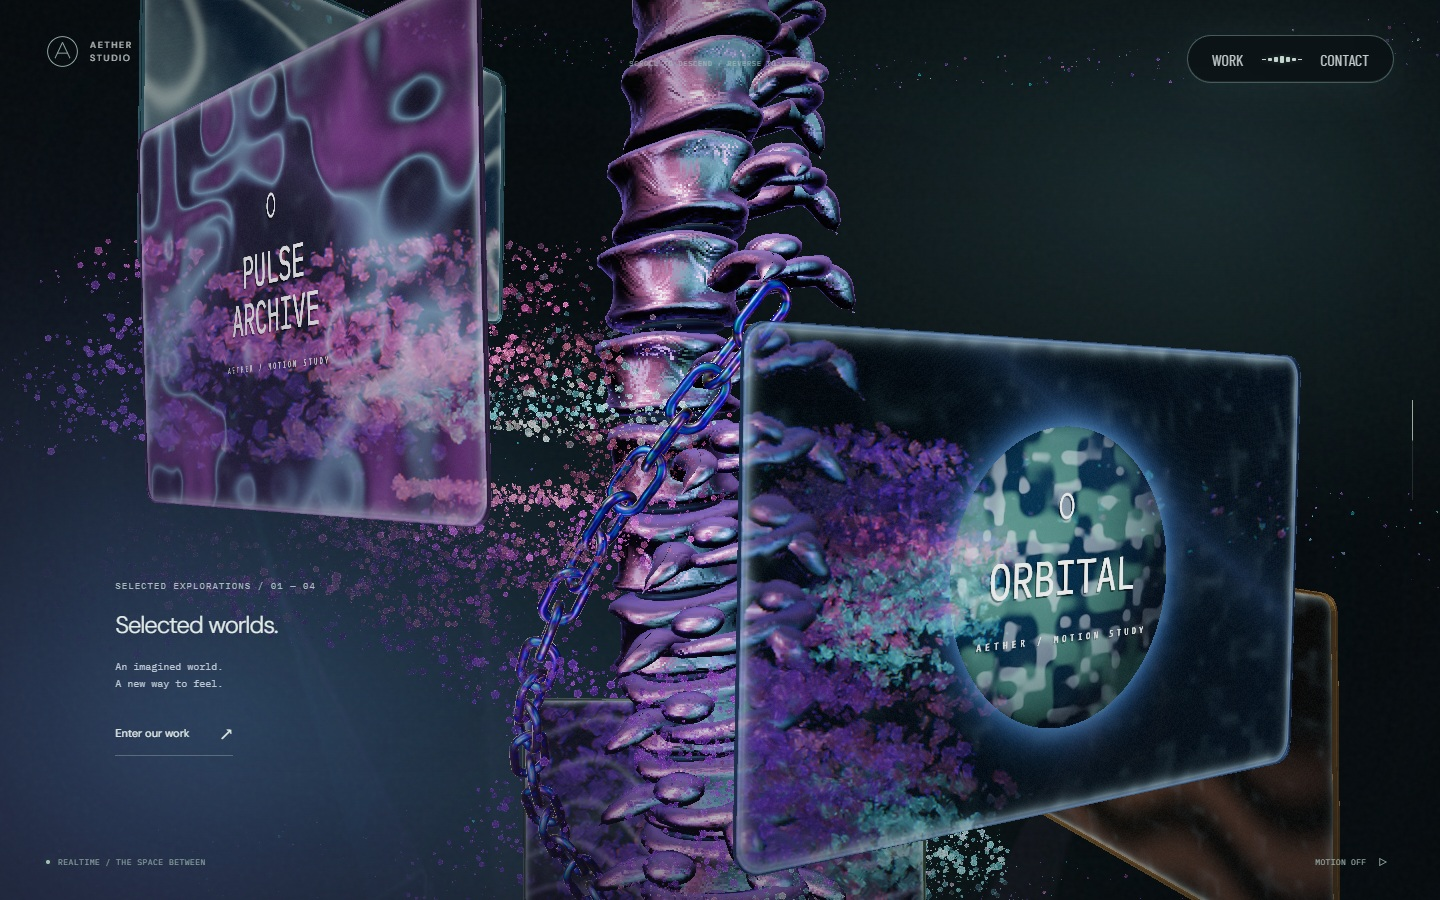
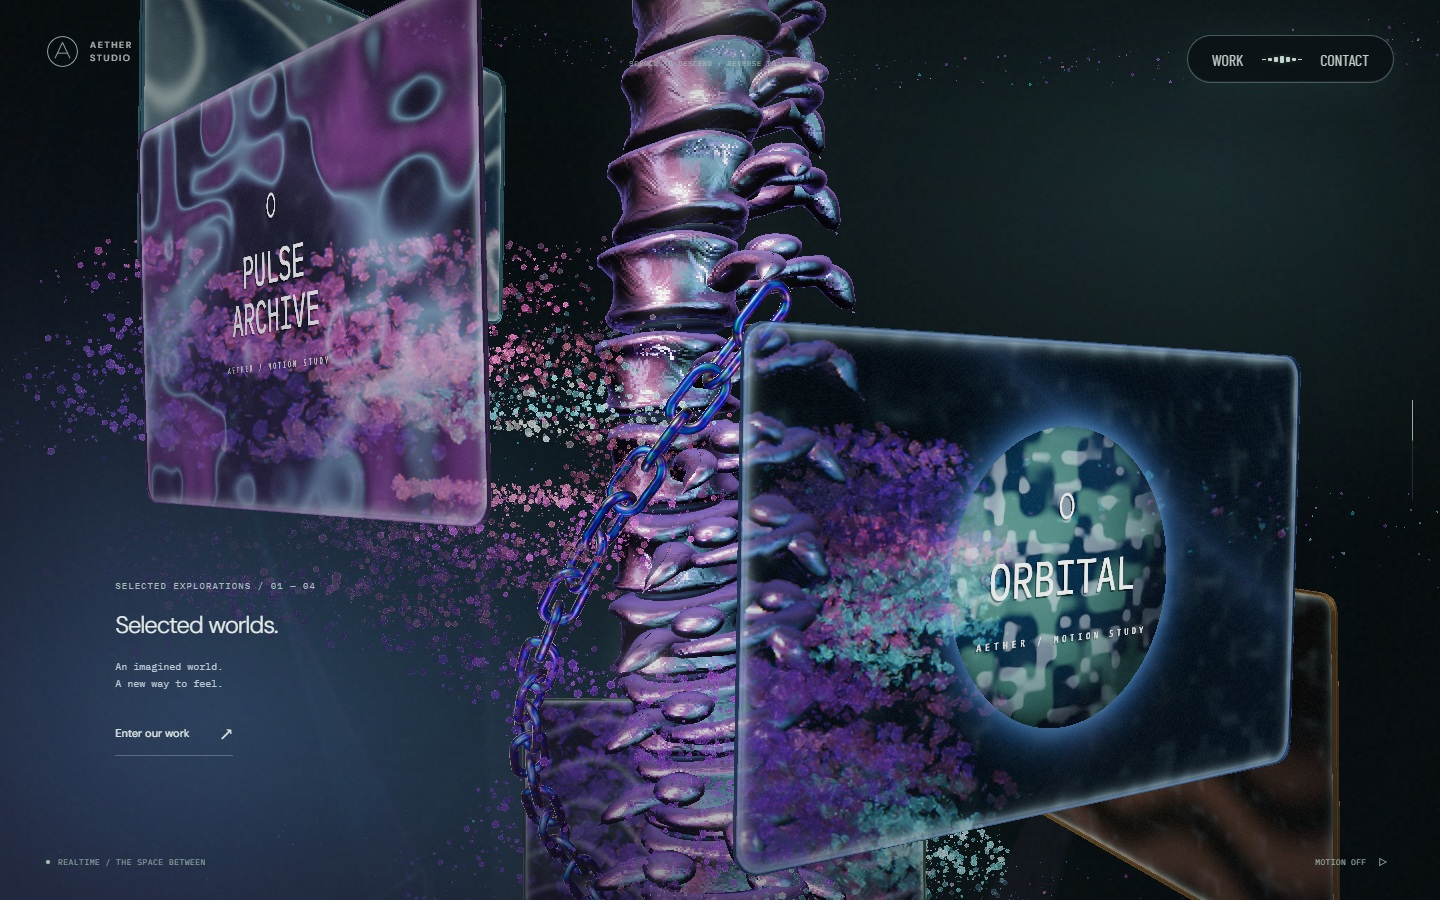
fix: preserve metal glints and close scene validation gaps

diff --git a/src/SceneSpine.ts b/src/SceneSpine.ts
@@ -221,6 +221,7 @@ export function createSpineAssembly(software: boolean, mobile: boolean) {
         // Broad reflected color coats the midtones; only the brightest metal
         // highlights approach silver. Grain never controls the coating hue.
         float spineLightPeak = max(outgoingLight.r, max(outgoingLight.g, outgoingLight.b));
+        float spineSilverPeak = min(outgoingLight.r, min(outgoingLight.g, outgoingLight.b));
         float spineWhiteHighlight = smoothstep(1.4, 4., spineLightPeak);
         float spineColorPeak = max(spineReflectionColor.r, max(spineReflectionColor.g, spineReflectionColor.b));
         vec3 spineCoatTint = mix(vec3(.58,.39,.76),
@@ -230,10 +231,17 @@ export function createSpineAssembly(software: boolean, mobile: boolean) {
         outgoingLight = spineRadiance * spineCoatTint * (.52 + spineCoating * .16)
           + spineReflectionColor * (.34 + spineFresnel * .35)
             * (.84 + spineCoating * .16);
+        // The common RGB component of a bright PBR reflection is its neutral
+        // silver glint. Keep that narrow peak above the colored coating; tinting
+        // every peak as well as the midtones removes the metal's white sparkle.
+        float spineSilverGlint = smoothstep(.45, 1.4, spineSilverPeak);
+        spineSilverGlint *= spineSilverGlint;
+        vec3 spineSilverRadiance = vec3(spineSilverPeak * .90 / (1. + spineSilverPeak * .32));
+        outgoingLight = mix(outgoingLight, spineSilverRadiance, spineSilverGlint * .88);
         #include <opaque_fragment>
       `)
     }
-    boneMaterial.customProgramCacheKey = () => 'aether-spine-layered-silver-v4'
+    boneMaterial.customProgramCacheKey = () => 'aether-spine-layered-silver-v5'
   }
   const discMaterial = new THREE.MeshPhysicalMaterial({
     color: 0x26364a, metalness: software ? .45 : .86, roughness: .44,

diff --git a/src/SceneWorlds.ts b/src/SceneWorlds.ts
@@ -315,9 +315,28 @@ export function createSceneWorlds(
   // the same screen edge that clips every upper-room object.
   const undersideMaterial = mat(new THREE.MeshStandardMaterial({
     color: 0x090d12, metalness: .43, roughness: .57, envMapIntensity: .42,
-    depthWrite: true,
+    transparent: true, depthWrite: true,
   }))
-  const underside = mesh(lowerSpace, geo(new THREE.PlaneGeometry(64, 64)), undersideMaterial, 0, -3.755, platformZ)
+  // A finite ceiling edge previously crossed the scale room as a hard screen
+  // line. Extend beyond the useful view distance, then fade before either the
+  // geometry boundary or camera far clip. Nearby ceiling still occludes fully.
+  undersideMaterial.onBeforeCompile = shader => {
+    shader.fragmentShader = shader.fragmentShader.replace('#include <opaque_fragment>', `
+      float ceilingCoverage = 1. - smoothstep(48., 76., length(vViewPosition));
+      if (ceilingCoverage < .001) discard;
+      diffuseColor.a *= ceilingCoverage;
+      #include <opaque_fragment>
+    `)
+  }
+  undersideMaterial.customProgramCacheKey = () => 'aether-ceiling-distance-coverage-v1'
+  const undersideGeometry = geo(new THREE.PlaneGeometry(192, 192))
+  // Keep the shared relief's world-space scale and centre phase unchanged.
+  const undersideUv = undersideGeometry.getAttribute('uv')
+  for (let i = 0; i < undersideUv.count; i++) {
+    undersideUv.setXY(i, (undersideUv.getX(i) - .5) * 3 + .5,
+      (undersideUv.getY(i) - .5) * 3 + .5)
+  }
+  const underside = mesh(lowerSpace, undersideGeometry, undersideMaterial, 0, -3.755, platformZ)
   underside.name = 'aether-floor-underside'
   underside.rotation.x = Math.PI / 2
   underside.renderOrder = -2

diff --git a/tests/experience.spec.ts b/tests/experience.spec.ts
@@ -37,13 +37,15 @@ test('work navigation, project sequence, Escape, and focus restoration', async (
   await expect(card).toBeFocused()
   await expect(page.locator('body')).not.toHaveCSS('overflow', 'hidden')
 
-  await page.getByRole('button', { name: 'Explore Solstice', exact: true }).click()
+  const secondCard = page.getByRole('button', { name: 'Explore Solstice', exact: true })
+  await secondCard.click()
   await dialog.getByRole('button', { name: 'Next project' }).click()
   await expect(dialog.getByRole('heading', { level: 2 })).toHaveText(
     'Somewhere between the real and the imagined.',
   )
   await dialog.getByRole('button', { name: 'Close project' }).click()
   await expect(dialog).not.toBeVisible()
+  await expect(secondCard).toBeFocused()
   expect(errors).toEqual([])
 })
 

diff --git a/tests/fixtures/interaction-harness.ts b/tests/fixtures/interaction-harness.ts
@@ -762,6 +762,13 @@ function probeScalePointer() {
   // time. Ambient particle animation cannot masquerade as pointer response.
   probeScene.attach(tiles)
   probeScene.add(new THREE.AmbientLight(0xffffff, 2))
+  // Uniform ambient light cannot reveal a rigid face's changing normal. A
+  // fixed oblique key observes the actual hinge shading, without depending
+  // on the removed pointer-driven albedo boost or an artificial normal bend.
+  const key = new THREE.DirectionalLight(0xffffff, 4)
+  key.position.set(-4, -43, 6)
+  key.target.position.set(0, -48, 0)
+  probeScene.add(key, key.target)
   const target = new THREE.WebGLRenderTarget(160, 120)
   const previousTarget = renderer.getRenderTarget()
   const previousAutoClear = renderer.autoClear

diff --git a/src/App.tsx b/src/App.tsx
@@ -557,6 +557,9 @@ export default function App() {
                 key={item.id}
                 className={`project-card card-${item.theme}`}
                 onClick={(event) => {
+                  // Safari need not focus a button on pointer activation. Set
+                  // the opener before the dialog captures its return target.
+                  event.currentTarget.focus({ preventScroll: true })
                   document.documentElement.style.setProperty('--project-origin-x', `${event.detail ? event.clientX / innerWidth * 100 : 50}%`)
                   document.documentElement.style.setProperty('--project-origin-y', `${event.detail ? event.clientY / innerHeight * 100 : 50}%`)
                   setProject(item)

diff --git a/tests/interaction.spec.ts b/tests/interaction.spec.ts
@@ -555,7 +555,7 @@ test.describe('@interaction isolated rendered trail and input lifecycle', () => 
     expect(contact.scaleCorePresent).toBe(false)
     expect(contact.ceilingWidth).toBeCloseTo(64, 5)
     expect(contact.undersideY).toBeLessThan(contact.floorMin)
-    expect(contact.undersideWidth).toBeCloseTo(64, 5)
+    expect(contact.undersideWidth).toBeCloseTo(192, 5)
     expect(surfaces.visibility[0]).toMatchObject({ machine: true, ruins: true, upperStructure: true, underside: false })
     // The partial wrapper overlap retains the upper room after the eye has
     // crossed its floor; only the shared screen edge decides its coverage.

diff --git a/tests/fixtures/material-detail-harness.ts b/tests/fixtures/material-detail-harness.ts
@@ -118,7 +118,7 @@ export function probeMaterialDetail() {
   const artworkMaterial = createScaleSurface(false, {
     pointerNdc: { value: new THREE.Vector2() }, pointerStrength: { value: 0 },
     pointerAspect: { value: 1 }, pointerFlow: { value: neutralFlow }, surfaceTime: { value: 6.5 },
-    surfaceExtent: { value: 6 }, pointerWaves: { value: Array.from({ length: 8 }, () => new THREE.Vector4()) },
+    surfaceExtent: { value: 6 }, pointerWaves: { value: Array.from({ length: 8 }, () => new THREE.Vector4(0, 0, 0, 0)) },
     lightDepth: { value: 0 },
   }, undefined, { map: { value: artworkTexture }, ready: artworkReady })
   try {

diff --git a/docs/graphics-detail-fidelity.md b/docs/graphics-detail-fidelity.md
@@ -6,7 +6,7 @@
 
 | 대상 | 구현 | 그래픽스 용어 |
 | --- | --- | --- |
-| 본 컬럼 | 넓은 반사색과 박막 두께, 중간 주름, 미세 표면을 분리한다. 밝은 반사는 색 비율을 유지하며 압축한다. | PBR, iridescence / thin-film interference, microfacet roughness, surface-gradient bump mapping, highlight roll-off |
+| 본 컬럼 | 넓은 반사색과 박막 두께, 중간 주름, 미세 표면을 분리한다. 밝은 반사는 압축하되 원래 PBR 반사의 흰 하이라이트를 남긴다. | PBR, iridescence / thin-film interference, microfacet roughness, surface-gradient bump mapping, highlight roll-off |
 | 큰 글자 | 포인터 속도·밀도장에서 높이 기울기를 읽고 글자 텍스처의 UV를 국소적으로 접는다. 변형 상한은 화면 높이의 5.5%다. | fluid-driven UV distortion, refraction, density gradient, advection, vorticity confinement |
 | 본 컬럼 좌하단 안개 | 이전 작업의 독립된 속도·밀도장과 잔류·복원 동작을 유지한다. 배경 형상을 비틀지 않고 안개 투과를 바꾼다. | advected density field, opacity mask, dissipation |
 | 리액터 입자 | 입자마다 GPU 위치를 저장하고 curl·접선 방향으로 이동시킨다. O형 영역으로 복원하는 힘과 외곽 제한을 적용한다. | GPGPU, ping-pong render targets, position history, curl field, confinement, sphere impostor |
@@ -23,6 +23,8 @@ GPU 리액터는 PC 144,000개, 모바일 40,000개 입자에 고유 위치 texe
 
 리액터 받침의 과노출은 실제 장면에서 발견했다. 방에 필요한 영상 조명의 큰 배율이 금속에도 적용되면서 하얗게 번졌다. 받침·rod·cap의 반사 기여와 보조 발광만 낮추고 방과 바닥의 조명을 유지했다.
 
+하부 장면의 배경 수평선은 천장 평면의 먼 경계였다. 천장을 넓히고 카메라에서 멀어질수록 투명하게 해 경계가 드러나지 않도록 했다. 가까운 천장의 차폐와 문양 크기는 유지한다.
+
 ## 스케일 이미지 출처
 
 [`scale-alloy.jpg`](../public/media/scale-alloy.jpg)는 이 프로젝트용으로 OpenAI `image_gen`에서 생성한 원본 이미지다. Active Theory의 사진·모델·텍스처는 입력하거나 복사하지 않았다. 생성 PNG를 1536×768 JPEG로 내보냈으며 크기는 451,945바이트다. 규격·색 공간·SHA-256은 [manifest](../public/media/scale-alloy-manifest.json)에 있다.
@@ -34,6 +36,10 @@ GPU 리액터는 PC 144,000개, 모바일 40,000개 입자에 고유 위치 texe
 실제 production 셰이더를 사용하는 GPU fixture에서 글자 이동 거리·복원·전경 보존, 입자 입력 방향·잔류·O 경계·정지·고유 상태, 금속 환경 반사·시점·거칠기 변화·타일 법선, 물 반사 위치·색·경계 누수를 검사한다.
 
 레드팀에서 비활성 상태의 역스크롤 중 입자 혼합 비중이 갱신되지 않는 문제를 발견했다. GPU 적분만 정지하고 진행도·장면 이탈은 계속 반영하도록 고쳤으며 회귀 검사를 추가했다.
+
+로컬 전체 검사는 128개 통과, 2개 실패, 기존 조건부 제외 1개였다. 실패를 확인해 본 컬럼의 흰 반사를 복원했고, 스케일 fixture에는 실제 면 회전에 따른 명암을 읽을 수 있는 고정 사광을 추가했다. Artwork fixture의 포인터 파동도 명시적으로 비활성화했다. 검사 기준은 유지했으며 실패한 두 검사는 수정 후 모두 통과했다. 최종 커밋 전체 검사는 PR의 CI 결과로 확인한다.
+
+추가 WebKit 검사에서는 프로젝트 창을 닫은 뒤 카드로 포커스가 돌아오지 않는 문제를 찾았다. 카드 클릭 시 포커스를 명시해 모달이 실제 열기 버튼을 복귀 대상으로 저장하도록 고쳤다. 다른 프로젝트로 넘긴 뒤 닫기·수동 모션 정지와 재개·시스템 모션 축소 경로의 3개 검사가 수정 후 통과했다. Playwright WebKit의 iPhone 13 프로필 결과이며 실제 iPhone Safari 검증과 구분한다.
 
 로컬 Windows의 Chromium/ANGLE D3D11, 1440×900, DPR 1에서 구간마다 안정화 후 RAF 100개를 수집했다. 상단 포레스트·글자·본 컬럼·리액터·수면 통과·스케일 패널·하단 포레스트 모두 중앙값 16.7ms, p95 16.8ms였고 품질 배율은 1.00이었다. 독립 GPU 실행 중의 관찰이며 GPU 연산 시간이나 다른 기기의 FPS를 뜻하지 않는다. 브라우저 오류는 없었다. 390×844 화면도 별도로 확인했다.
 
